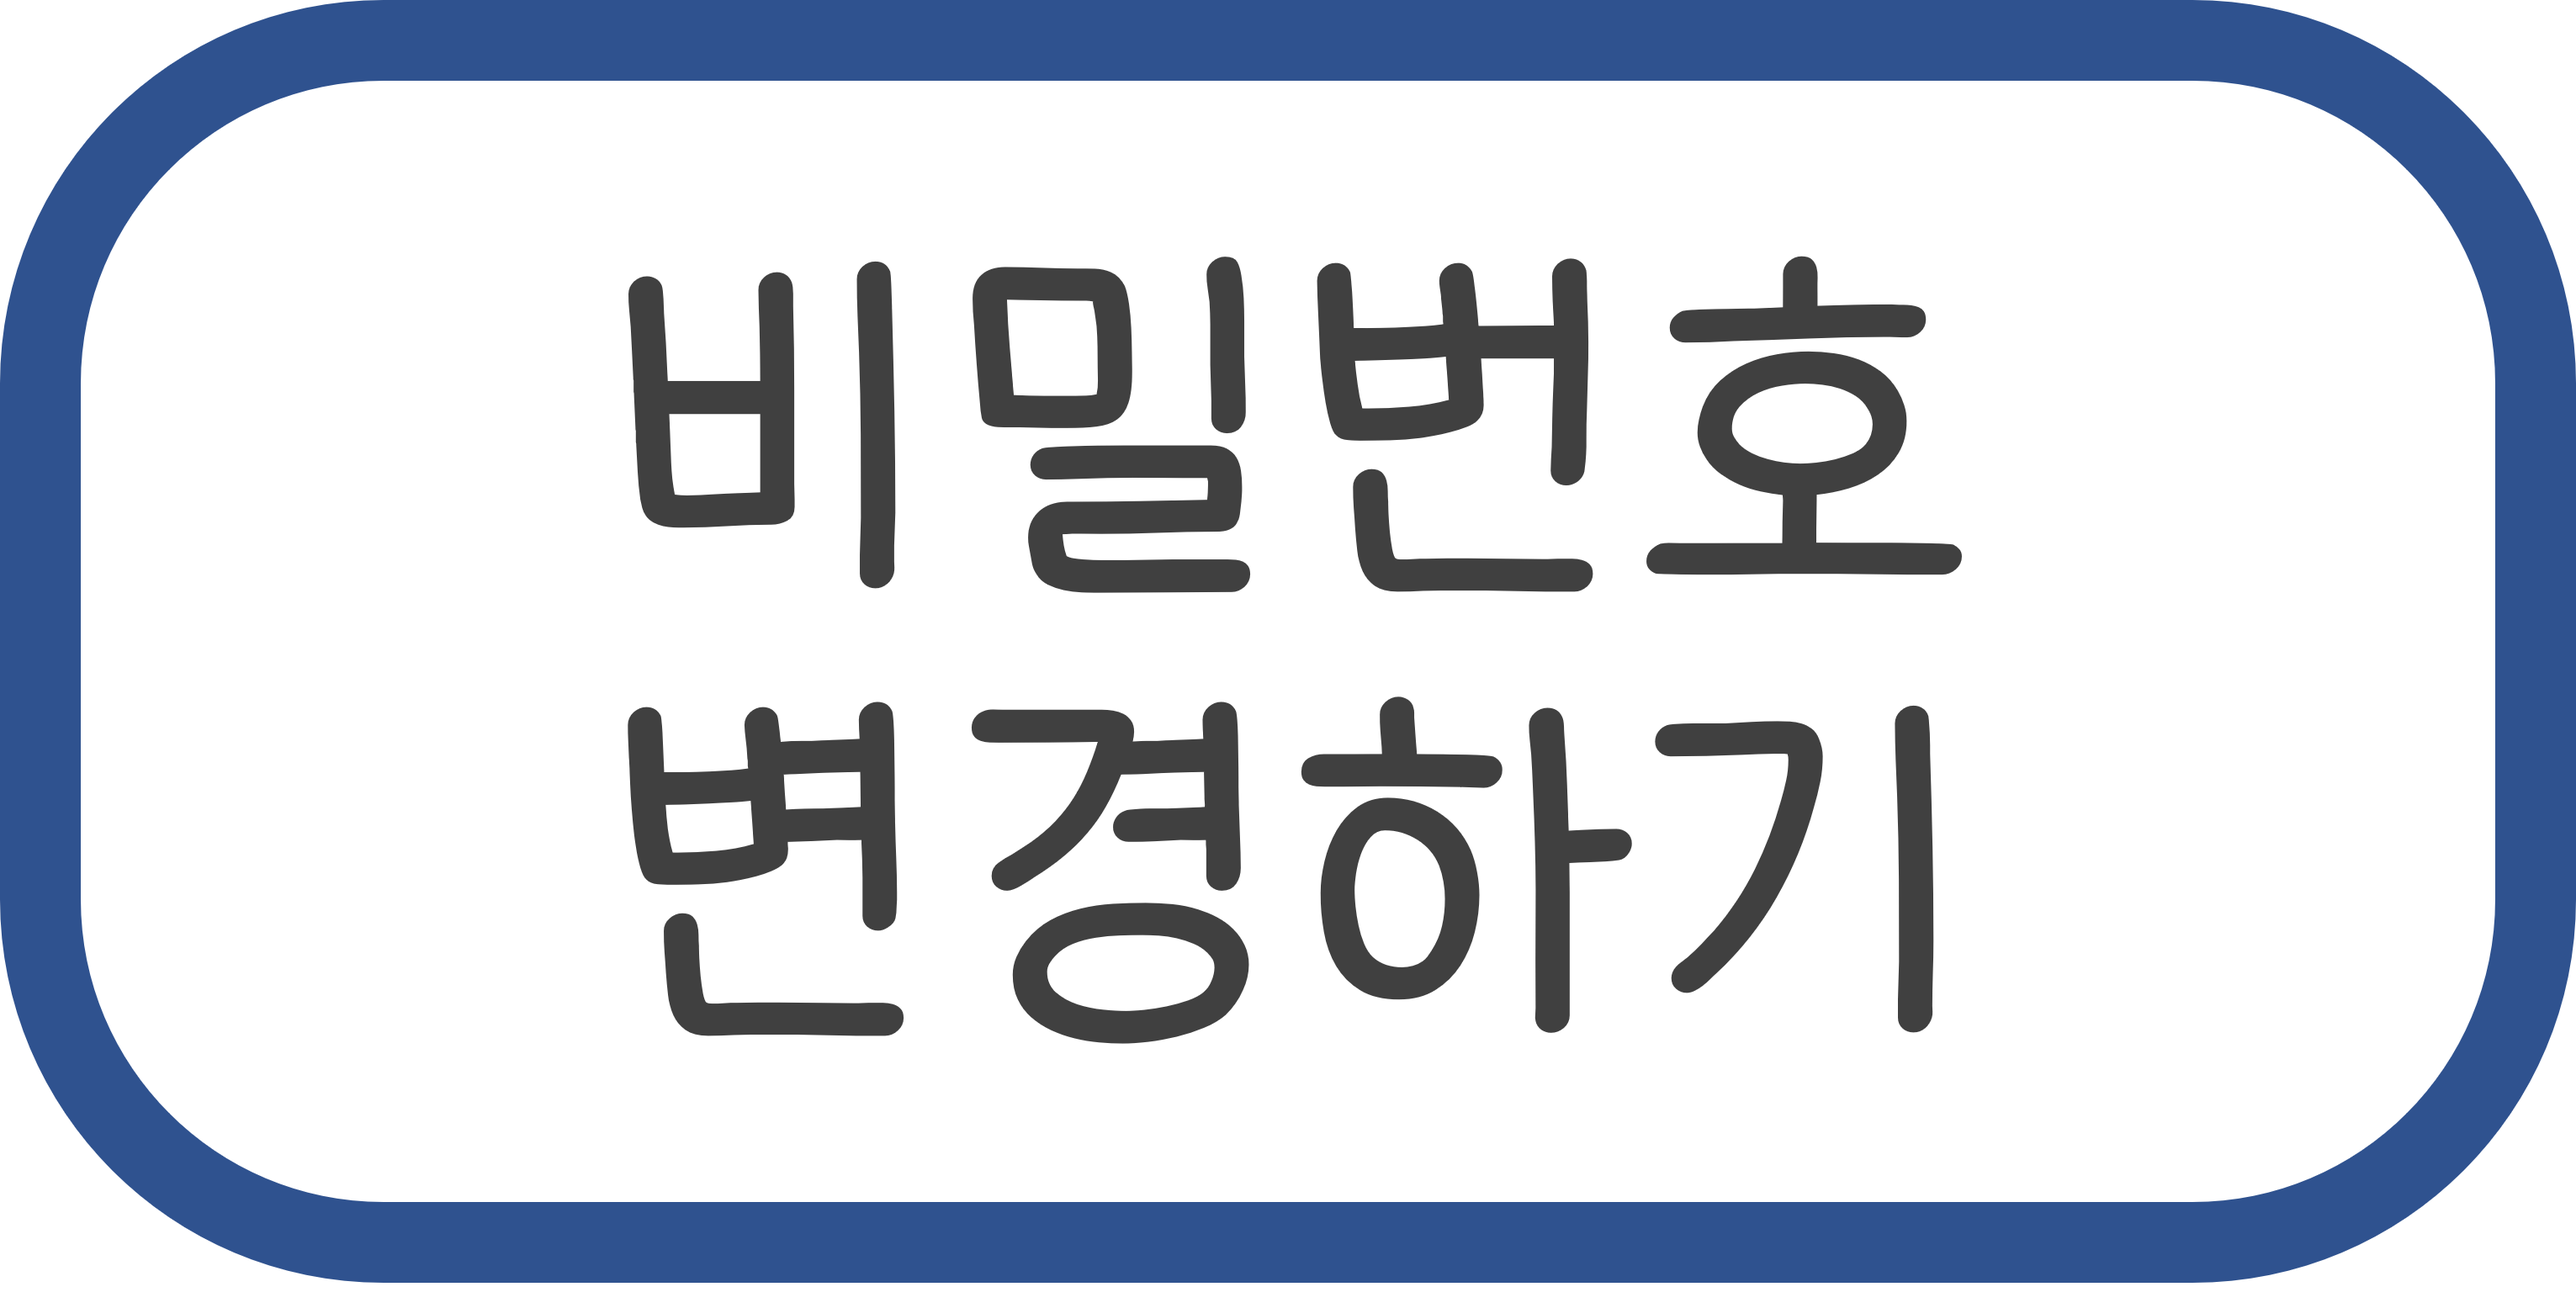
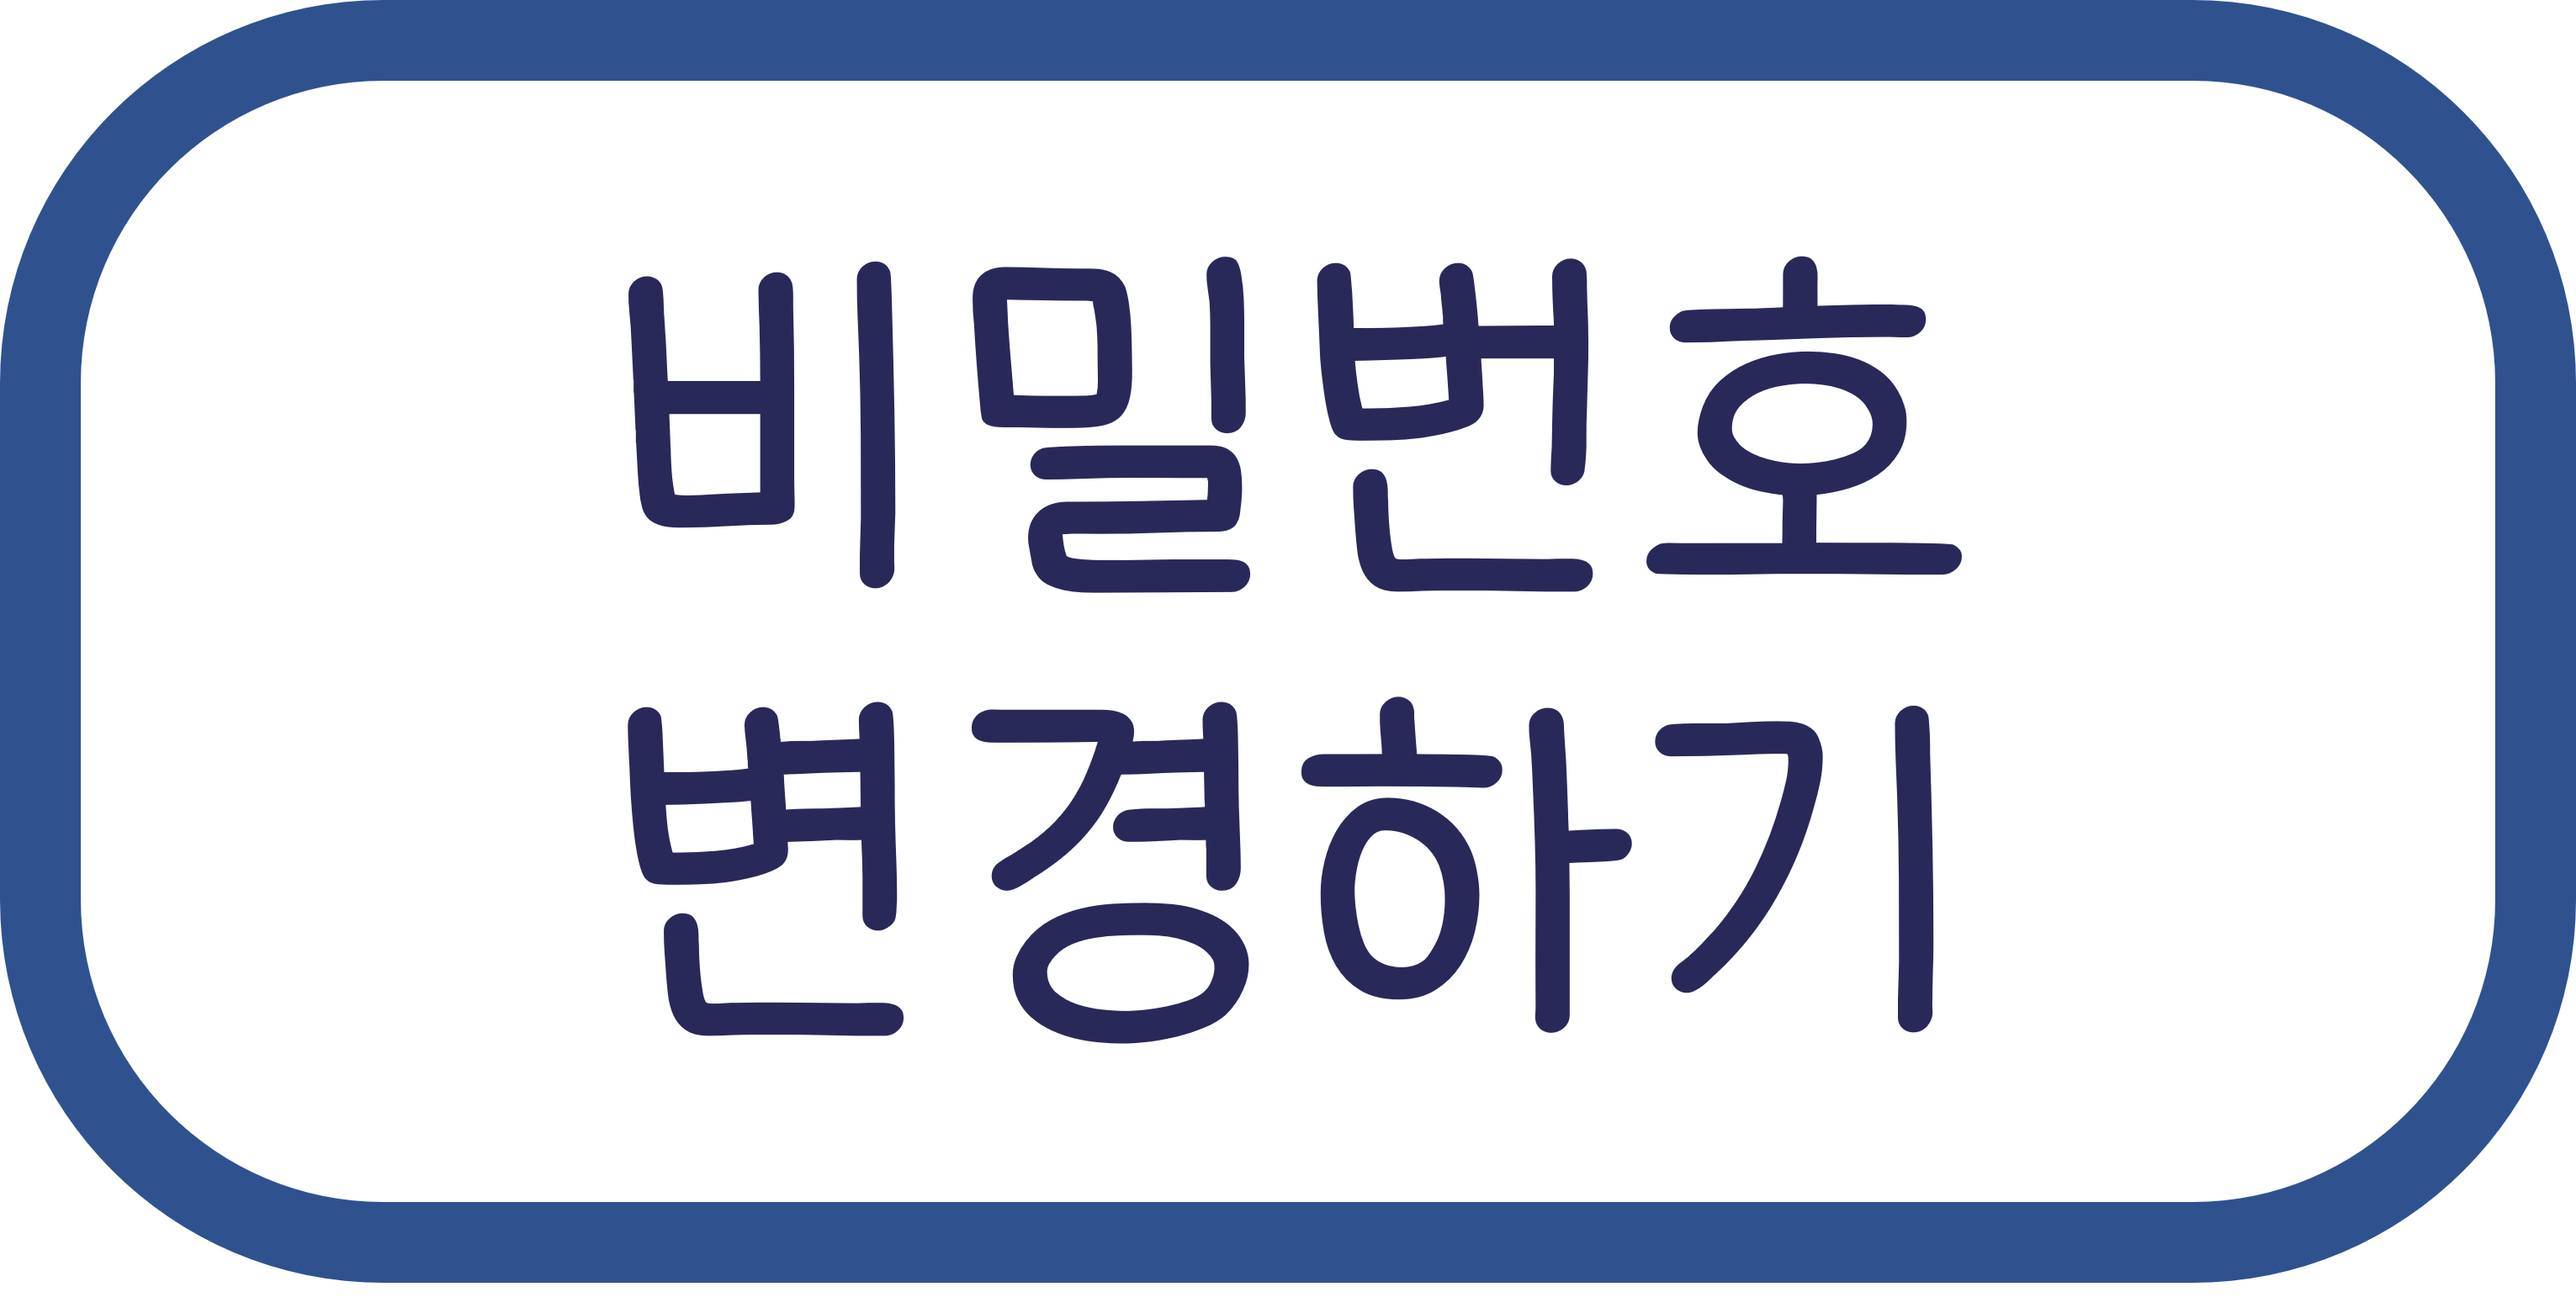
20220529_10:28

Changed region(s): [[0.2172, 0.5248, 0.7756, 0.8026], [0.2172, 0.1852, 0.7756, 0.463]]

diff --git a/TeamProject/PasswordMain.java b/TeamProject/PasswordMain.java
@@ -14,7 +14,6 @@ public class PasswordMain extends JFrame implements ActionListener
     private JButton gotoMainBtn;
     private JButton changePWBtn;
     private JButton changePWSubmitBtn;
-    private JButton finalBtn;
     private MailPage mailPage;
     private CodeVerifyPage codePage;
     private JPanel passwordPage;
@@ -74,7 +73,7 @@ public class PasswordMain extends JFrame implements ActionListener
 
         mailPage = new MailPage(errorStr);
 
-        mailSubmitBtn = new ButtonForm("./image/mailSubmitButton.png");
+        mailSubmitBtn = new ButtonForm("./image/mailSubmitButton");
         mailSubmitBtn.addActionListener(this);
 
         mailPage.add(mailSubmitBtn);
@@ -104,7 +103,7 @@ public class PasswordMain extends JFrame implements ActionListener
 
         codePage = new CodeVerifyPage(errorStr);
 
-        codeVerifyBtn = new ButtonForm("./image/codeVerifyButton.png");
+        codeVerifyBtn = new ButtonForm("./image/codeVerifyButton");
         codeVerifyBtn.addActionListener(this);
 
         codePage.add(codeVerifyBtn);
@@ -114,14 +113,14 @@ public class PasswordMain extends JFrame implements ActionListener
 
     private void showPasswordPage(boolean b)
     {
-        gotoMainBtn = new ButtonForm("./image/gotoMainButton.png");
+        gotoMainBtn = new ButtonForm("./image/gotoMainButton");
         gotoMainBtn.addActionListener(this);
 
         if (b)
         {
             passwordPage = new findPassword(true);
 
-            changePWBtn = new ButtonForm("./image/changePWButton.png");
+            changePWBtn = new ButtonForm("./image/changePWButton");
             changePWBtn.addActionListener(this);
             JPanel wrapperPanel = new JPanel(new FlowLayout());
             wrapperPanel.add(changePWBtn);
@@ -142,7 +141,7 @@ public class PasswordMain extends JFrame implements ActionListener
     {
         changePage = new ChangePage(errorMSG);
 
-        changePWSubmitBtn = new ButtonForm("./image/changePWButton.png");
+        changePWSubmitBtn = new ButtonForm("./image/changePWButton");
         changePWSubmitBtn.addActionListener(this);
 
         changePage.add(changePWSubmitBtn);
@@ -153,7 +152,7 @@ public class PasswordMain extends JFrame implements ActionListener
     private void showLastPage()
     {
         passwordPage = new findPassword(false);
-        gotoMainBtn = new ButtonForm("./image/gotoMainButton.png");
+        gotoMainBtn = new ButtonForm("./image/gotoMainButton");
         gotoMainBtn.addActionListener(this);
         passwordPage.add(gotoMainBtn);
 

diff --git a/TeamProject/ButtonForm.java b/TeamProject/ButtonForm.java
@@ -12,13 +12,18 @@ public class ButtonForm extends JButton
         setContentAreaFilled(false);
         setFocusPainted(false);
 
-        ImageIcon mailSubmitIcon = new ImageIcon(imgPath);
+        ImageIcon imgIcon = new ImageIcon(imgPath+".png");
+        ImageIcon imgIconDark = new ImageIcon(imgPath+"_dark.png");
 
-        Image mailSubmitImg = mailSubmitIcon.getImage();
-        mailSubmitImg = mailSubmitImg.getScaledInstance(200, 100, Image.SCALE_SMOOTH);
+        Image img = imgIcon.getImage();
+        Image imgDark = imgIconDark.getImage();
+        img = img.getScaledInstance(200, 100, Image.SCALE_SMOOTH);
+        imgDark = imgDark.getScaledInstance(200, 100, Image.SCALE_SMOOTH);
 
-        mailSubmitIcon.setImage(mailSubmitImg);
+        imgIcon.setImage(img);
+        imgIconDark.setImage(imgDark);
 
-        setIcon(mailSubmitIcon);
+        setIcon(imgIcon);
+        setRolloverIcon(imgIconDark);
     }
 }

diff --git a/TeamProject/CodeVerifyPage.java b/TeamProject/CodeVerifyPage.java
@@ -1,6 +1,7 @@
 package TeamProject;
 
 import javax.swing.*;
+import javax.swing.border.Border;
 import java.awt.*;
 
 public class CodeVerifyPage extends JPanel
@@ -17,7 +18,6 @@ public class CodeVerifyPage extends JPanel
 
         codeInput = new JTextField(4);
         codeInput.setFont(new Font("IM혜민 regular", Font.BOLD, 64));
-
         JPanel codeVerifyPanel = new JPanel(new FlowLayout());
         codeVerifyPanel.setBackground(PasswordMain.BGCOLOR);
         codeVerifyPanel.add(codeInput);
